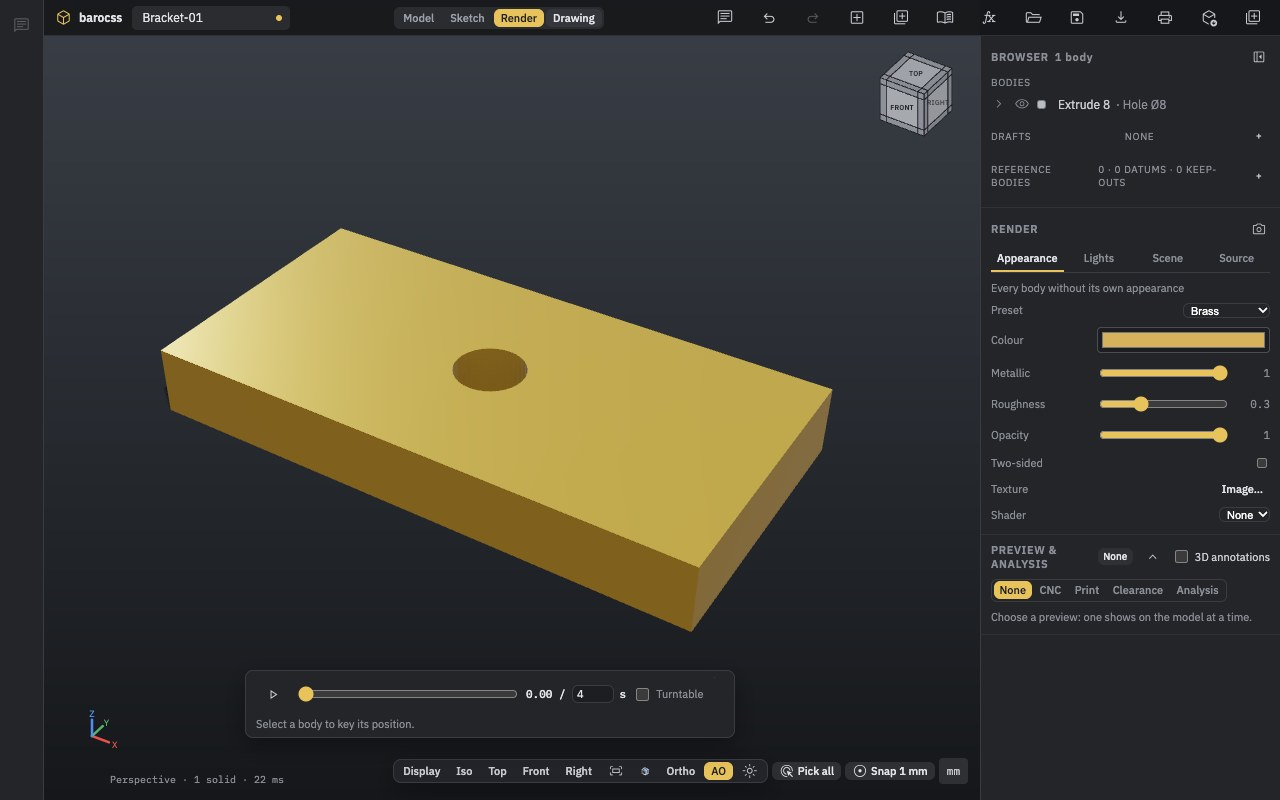
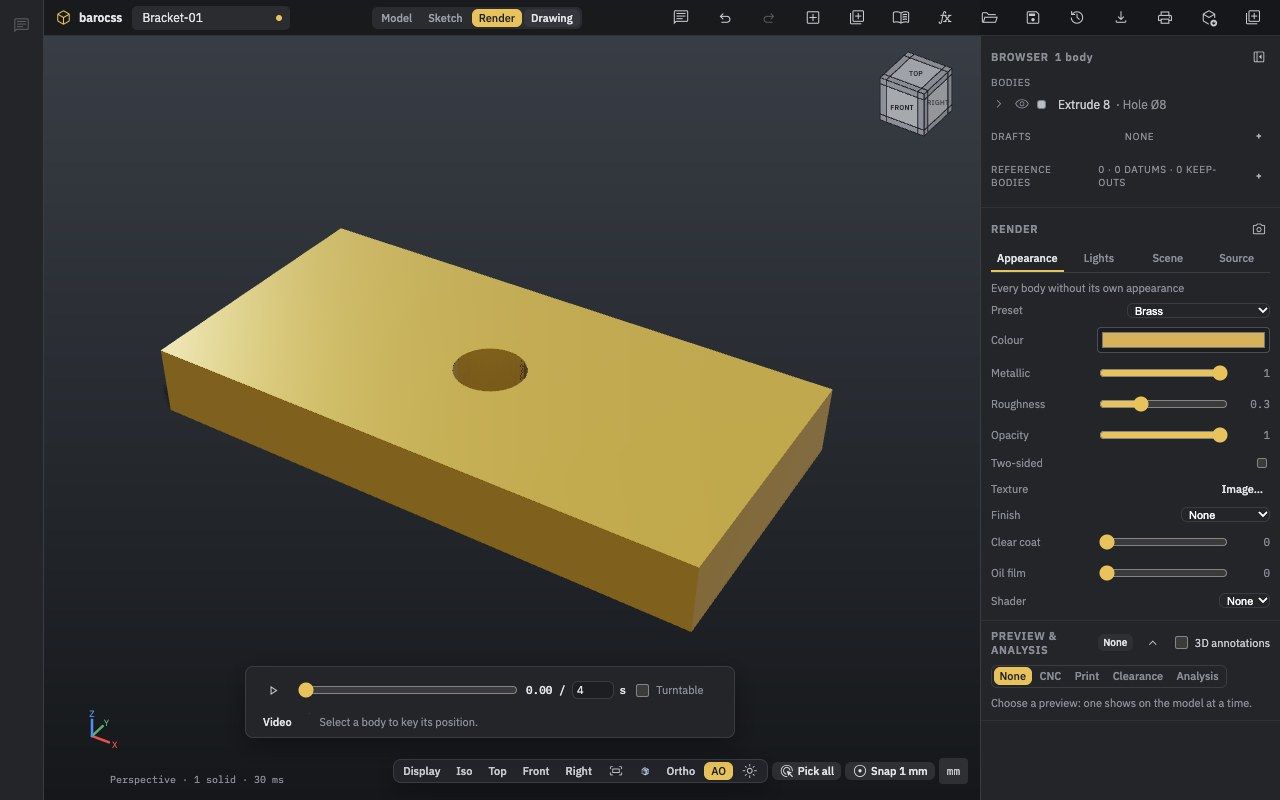
docs(library-docs): tonight's merges — the agent's version actions (CG6 VA-1/VA-2: history.version … merge, what a turn carries, VERSION_NOT_LOADED) on Projects and versions; the cam mate (PG-5), gears locked to a shaft (PG-4), lock_part (PG-8), running fits and cam seats as designed contact (PG-6),

diff --git a/apps/library-docs/docs/studio/robots.md b/apps/library-docs/docs/studio/robots.md
@@ -16,8 +16,25 @@ free, not from the mates' names:
 | a turn and the slide along its axis (cylindrical), a plane's two slides and a turn, a ball's three turns | a chain of one-degree joints through extra links |
 
 Anything else, such as a screw motion or two turns about different axes, is refused with a typed reason. A part joined
-twice round the graph closes a loop; the tree keeps one path and lists the loop, which the **Loop** line shows. Two
-spur gears meshing on one carrier's joints are coupled: the second follows the first at the gear ratio.
+twice round the graph closes a loop; the tree keeps one path and lists the loop, which the **Loop** line shows.
+
+Some joints follow another instead of moving on their own:
+
+- **Gears.** Two spur gears meshing on one carrier's joints are coupled: the second follows the first at the gear
+  ratio. A joint's gears are those of its part and of the parts fixed to it, so a gear locked to its shaft turns with
+  the shaft's joint. A locked gear off the joint's axis is noted `GEAR_NOT_COUPLED` rather than left out.
+- **Cams.** A **Cam** mate, from a face of the cam part to the follower's flat face, makes the follower ride the lobe.
+  The mate holds nothing itself: the follower's own mates place it in its guide, and its slide follows the cam's joint
+  by the lobe's lift. A cam mate from the follower to another sliding part, such as a valve it pushes, moves that
+  part with it, so chains like crank → gear → cam → follower → valve work. The Joints card says "follows *joint* on its cam (*mate*)".
+  - The lobe is read from the cam's faces at the follower's face: flats and arcs along the cam's axis, such as an
+    arc-and-line profile. Anything else is refused, `CAM_PROFILE_UNSUPPORTED`.
+  - Nothing is coupled, and `CAM_NOT_SEATED` says why, when the cam has no joint to drive it, the follower doesn't
+    slide, its face isn't flat or isn't across the cam's axis, the two are on different links, or the face is off the
+    lobe at the solved pose (by how much).
+  - The follower's face is taken as an infinite plane, so a face narrower than its contact's travel isn't caught.
+- **One leader each.** A joint follows one leader: a second cam or push on it is refused, `COUPLED_TWICE`. Couplings
+  that lead back round to their own joint are cut where the cycle closes, `COUPLING_CYCLE`.
 
 **Base link** chooses which link stays put. Angles are in degrees and lengths in millimetres in the card; exports
 write metres and radians.
@@ -33,12 +50,21 @@ write metres and radians.
   shows the gravity torques at the current pose. Right after an edit, these wait until the masses are worked out.
 - **Paths.** **Add waypoint** records poses. **Check path** sweeps the robot along them and reports the first
   collision, with continuous collision between samples.
-  - **Designed contact isn't a collision.** Two meshing gears' teeth are the coupling's to hold, and two links pinned
-    in a planar loop can't cross where they're stacked. Those pairs are skipped, each with why; anything else between
-    the same links is still checked.
-  - **A closed loop isn't closed along a motion yet.** A motion moves only the joints it names, so a looped robot's
-    poses along it are open. The agent's `check_path` and `play_motion` refuse such a robot with `LOOP_OPEN`; the
-    studio's **Check path** and playback don't close the loop either.
+  - **Designed contact isn't a collision.** Some faces touch by design, and the sweep leaves those to the design
+    while it still checks the rest of the same links. Each pair it skips says why.
+    - Two meshing gears' teeth are the coupling's to hold.
+    - Two links pinned in a planar loop can't cross where they're stacked.
+    - A cam follower's face rides the lobe. The rest of the follower is checked against the cam.
+    - A running fit: the two round faces of a concentric mate, such as a piston in its bore. The display meshes' facets
+      cut inside a true circle, so a 0.1 mm clearance would read as contact. Within the facets' depth, plus 0.05 mm,
+      the fit's faces don't count as touching; a boss past the bore still does.
+    - The cam's and the fit's faces are checked at the sweep's steps, at most 1/90 of the move apart, not certified
+      between them as the rest of the sweep is.
+  - **Closed loops along a motion.** The agent's `play_motion` and `check_path` close a looped robot's loop at every
+    pose: the motion names the driving joints, and the passive ones are solved. `check_path` cuts each segment into
+    chords at most 1° (or 1 mm) of the drivers apart and certifies each one. A chord's middle isn't closed exactly, and
+    the reply says by how much, as `loops: {chords, chord_residual_mm}`. A waypoint that gives a passive joint is
+    refused, `LOOP_PASSIVE`. The studio's **Check path** and playback don't close the loop yet.
 - **Playing a motion.** **Play motion** plays the motion chosen in **Motion choice** in time. Its length shows before
   it plays.
   - The draft is the path above: from home, through the waypoints, to the pose shown. Each joint moves at its velocity
@@ -67,6 +93,9 @@ and `cad-cli` can also run two checks:
 - **robot-size** raises actuators and ratings, or slows the profile, round by round until every margin is above
   zero, or stops with a typed reason when no sizing can fix the brief.
 
+Gravity torques, the sweep and inverse kinematics follow a cam's coupling. A move's torques through a cam are
+refused, `CAM_UNSUPPORTED`: the lift's second derivative isn't worked out yet.
+
 ## Exporting
 
 **Export URDF**, **Export MJCF**, **Export SDF** and **Export USD** write the robot with:
@@ -74,6 +103,9 @@ and `cad-cli` can also run two checks:
 - one link per part, the joint at the child;
 - the visual mesh and a convex hull for collision;
 - each link's inertia, in metres, kilograms and radians.
+
+No format holds a cam coupling, so a robot with a cam follower is refused, `CAM_UNSUPPORTED`. The agent's
+`export_urdf` and `export_mjcf` take `leave_out: ["cam"]`, which writes the follower as a free joint and notes it.
 
 Every export is checked against its format's rules by our own reader before it is written. The URDF and MJCF outputs have also been read back by
 external tools — urdfdom's `check_urdf` and MuJoCo — and their kinematics match the studio's.
@@ -205,8 +237,8 @@ the tool gives them, with turns in radians.
 <<< @/../samples/robots.test.mjs#motions
 
 - **Every demo motion swept.** Each sample's own motion is clear, and the gripper's meshing fingers are skipped as
-  designed contact. The four-bar's motion is refused with `LOOP_OPEN`: by `check()`, `poseAt()` and `duration()`, and
-  listed first by `problems()`.
+  designed contact. The object API doesn't close loops yet, unlike the agent's tools, so the four-bar's motion is
+  refused with `LOOP_OPEN`: by `check()`, `poseAt()` and `duration()`, and listed first by `problems()`.
 
 <<< @/../samples/robots.test.mjs#sweeps
 

diff --git a/apps/library-docs/docs/studio/projects.md b/apps/library-docs/docs/studio/projects.md
@@ -77,11 +77,43 @@ The folder can be copied or synced: a version's files never change once they're 
 - **A missing file** the project no longer has is named: "Not in the project any more: …".
 - **It still opens anywhere.** The assembly keeps its own copy of each placed part, so its `.bcad` opens on its own.
 
+## The agent's versions
+
+The agent keeps, compares and merges versions too, through actions on its `history` tool. They work on the open
+project's log, the same one the card shows. With no project open, or a document not in the project yet, the log is kept
+for the session.
+
+| Action | What it does |
+|---|---|
+| `history.version` | `name?`, `note?`: keeps the part as a version on the current branch. Refused when nothing changed since the branch's last version, or the name is taken |
+| `history.versions` | `branch?`: the branches, the current one, and a branch's versions, newest first |
+| `history.restore_version` | `id`: the part back as that version kept it (an id or a name) |
+| `history.compare` | `from?`, `to?`: what changed, as the card's list gives it. Each is a version, `latest` or `current`; by default from `latest` to `current` |
+| `history.branch` | `name`, `from?`: a branch made at a version, by default the current branch's last. It isn't switched to |
+| `history.switch` | `branch`, `discard?`: the branch's last version becomes the part. Refused while there are changes not made into a version, unless `discard: true` drops them |
+| `history.merge` | `from`, `resolve?`: another branch's work brought in, as **Merge into** does. The part must be its branch's last version first |
+
+- **Merge conflicts.** They come back as data, and nothing is merged. Each has its code, where it is, and both sides:
+  a short value whole, a long one as its kind and length. The agent merges again with `resolve`, `"ours"` (the current
+  branch) or `"theirs"` for each.
+- **Who made it.** A version the agent makes is recorded in the folder's log as made by `agent`.
+- **What a turn carries.** A chat turn takes the whole list of versions and branches, but only the documents its
+  actions need: each branch's latest version, and the version each other branch shares with the current one. A version
+  the agent asks for whose document didn't come is refused with `VERSION_NOT_LOADED`, and that document comes with the
+  next turn.
+- **When the turn comes back.** Its versions are added to the project, and the ones you made meanwhile are kept. If you
+  and the agent both moved a branch, yours stays the branch's latest and a message says so; the agent's versions stay
+  in the list.
+- **Edits made during the turn.** A restore, a switch or a merge brings back a whole earlier state, so it isn't
+  replayed onto a part you edited while the agent worked. It waits in a proposal instead, as
+  [other colliding changes](/agent/proposals#when-the-part-changed-meanwhile) do.
+
 ## Refusals
 
 A project refuses rather than guess, each refusal with its code:
 
-- versions, branches and merges: `VERSION_…`, `BRANCH_…` and `MERGE_…`;
+- versions, branches and merges: `VERSION_…`, `BRANCH_…` and `MERGE_…`, with `VERSION_NOT_LOADED` for a version whose
+  document didn't come with the agent's turn;
 - conflicts: `FEATURE_EDITED_BOTH`, `FEATURE_DELETED_EDITED`, `MERGE_DANGLING`, `ID_CLASH` and `ITEM_DELETED_EDITED`;
 - storage: `STORAGE_PATH`, `STORAGE_CHANGED` (the file changed elsewhere), `STORAGE_DENIED`, `STORAGE_MISSING` and
   `STORAGE_UNAVAILABLE`.
@@ -92,4 +124,3 @@ See [Refusal codes](/reference/refusals).
 
 - Renaming a document doesn't update the links to it.
 - Sharing, comments and several people editing one project.
-- The agent has no version actions yet.

diff --git a/apps/library-docs/docs/studio/rendering.md b/apps/library-docs/docs/studio/rendering.md
@@ -22,6 +22,11 @@ An appearance applies to the selected bodies. With none selected, it applies to 
 - **Texture:** an image multiplied into the colour.
   - **Repeat every** sets its size in mm.
   - **Cut out below** leaves out what is under an alpha value, for holes, leaves or grilles.
+- **Finish:** the marks a process leaves on the surface: **Cast**, **Sand-cast**, **Machined**, **Turned**,
+  **Brushed**, **Knurled** or **Bead-blasted**.
+  - **Marks** sets their size and **Depth** how strong they are.
+  - **Along** sets their direction, X, Y or Z, for the finishes that have one.
+- **Clear coat**, a lacquer over the colour, and **Oil film**, an oil's tint on the reflections, from 0 to 1.
 - **Shader:** one of the materials written on the **Source** tab.
 - **Use the default appearance** removes a body's own.
 
@@ -34,13 +39,26 @@ An appearance is a look, not a material: a body's mass comes from its material, 
   - A point or spot light has a position, and a **Range** over which it fades. A spot also has a **Cone**.
   - Every light has **Intensity** and **Colour**.
   - One sun can cast a **Shadow**.
+- **Shadows.** The shadow is soft, as from a studio key light about 3° across: sharp at the foot of what casts it and
+  wider and lighter farther off. Contact shadows darken the creases and the places where parts meet, which the shadow
+  map is too coarse to show. Both are on in the Render workspace, with no control for them yet; the modelling look
+  is unchanged.
 - **Scene.**
-  - The background's **Top** and **Bottom** colours, or an **Environment** image.
-  - **Environment strength** and **Exposure**.
-  - **Tone map**: **Filmic (ACES)** or **None**.
-  - **Edges**, **Grid**, **Ground** and **Occlusion**.
+  - The background's **Top** and **Bottom** colours, and the **Ambient** light.
+  - **Studio** lights the part: **Sky and ground**, **Softboxes** or **Cyclorama**. **Environment** takes an image
+    instead, an equirectangular one with its top row overhead.
+  - **Environment strength**, for a studio or an image.
+  - **Occlusion**, **Ground**, **Grid** and **Edges**.
+- **Post.**
+  - **Exposure**.
+  - **Tone map**: **Filmic (ACES)**, **Soft highlights (AgX)** or **None**.
+  - **Grade**: **Neutral**, **Warm studio** or **Cool daylight**, with **Contrast**, **Saturation** and **Vignette**.
 
 ![The Lights tab](/shots/studio/rendering/lights.png)
+
+![A post on a plate in the Render workspace: its shadow dark at the foot and softer and wider farther off, and the crease where it meets the plate darkened](/shots/studio/rendering/shadows.jpg)
+
+![The Scene tab: the background, the ambient light, the Softboxes studio, its strength and the view toggles; under Post, exposure, tone map and grade](/shots/studio/rendering/scene.png)
 
 ## Camera
 

diff --git a/apps/library-docs/docs/studio/assemblies.md b/apps/library-docs/docs/studio/assemblies.md
@@ -32,11 +32,15 @@ To add one, pick a face that stays, then a face on the part to move.
 | **Concentric** | Two round faces on one axis |
 | **Tangent** | A round face touching a flat face or another round face |
 | **Lock** | One part fixed to another |
+| **Cam** | A follower's flat face riding a cam's lobe, from a face of the cam: see [Robots](/studio/robots#the-joint-tree) |
 
 Only the kinds a pair of faces admits are offered (two flat faces: coincident, distance, angle; two round faces:
-concentric, tangent; a flat and a round face: tangent), and **Mate flip** turns the moving part to face the other way. The
+concentric, tangent; a flat and a round face: tangent; **Cam** last, whenever the moving face is flat), and **Mate flip** turns the moving part to face the other way. The
 panel's **Freedom** line says what the picked part can still do: fixed in place, placed by typed numbers, or the
 motion its mates leave free. A mate that can't be solved is refused, and **Mate refused** says why.
+
+The agent locks a part with `assembly.lock` (`part`, `to`): a lock mate that keeps the part where it stands in the
+other's coordinates, proposed for you to accept as its other assembly changes are.
 
 The freedom that mates leave is also what makes a mechanism move. [Robots](/studio/robots) reads the mates as joints.
 

diff --git a/apps/library-docs/docs/reference/limits.md b/apps/library-docs/docs/reference/limits.md
@@ -47,7 +47,11 @@ What isn't supported, or is refused, gathered from the other pages. Each item li
   ([Frames and weldments](/studio/frames))
 - **Robots.**
   - Motions such as a screw, or two turns about different axes, are refused.
-  - A loop in the mates keeps one path.
+  - A loop in the mates keeps one path. The agent's motions close it; the studio's playback and **Check path**, and the
+    object API, don't yet.
+  - A cam's lobe is read only from flats and arcs along its axis, and the follower's face as an infinite plane. Motion
+    torques and the robot exports don't take a cam.
+  - The sweep checks a cam's seat and a running fit's round faces at its steps, not certified between them.
   - Revolute and prismatic joints need their limits, effort and velocity before they export.
     ([Robots](/studio/robots))
 - **Unsupported cases.** The kernel refuses a case it doesn't support yet, in the category `CAPABILITY`, rather than

diff --git a/apps/library-docs/docs/packages/gpu/index.md b/apps/library-docs/docs/packages/gpu/index.md
@@ -49,6 +49,11 @@ package's own browser tests drive it in Chrome.
 - **The scene.**
   - Instancing (one draw for many copies) and frustum culling.
   - Directional shadows, ambient occlusion, a gradient or transparent background, and a ground grid.
+  - Soft shadows: `environment.softShadows`, the shadow-casting light's angular size in degrees, widens the penumbra
+    with the distance from what casts it (PCSS). With 0 or none, the edge stays hard. Only the one shadow-casting
+    light is softened.
+  - Contact shadows: `environment.contactShadows: { length?, strength? }` darkens where the depth buffer blocks a short
+    ray toward the shadow-casting light, in the creases the shadow map is too coarse for.
   - 4× MSAA, exposure and ACES tone mapping in a linear half-float pipeline.
   - Clip planes and cap hatching for sections.
 
